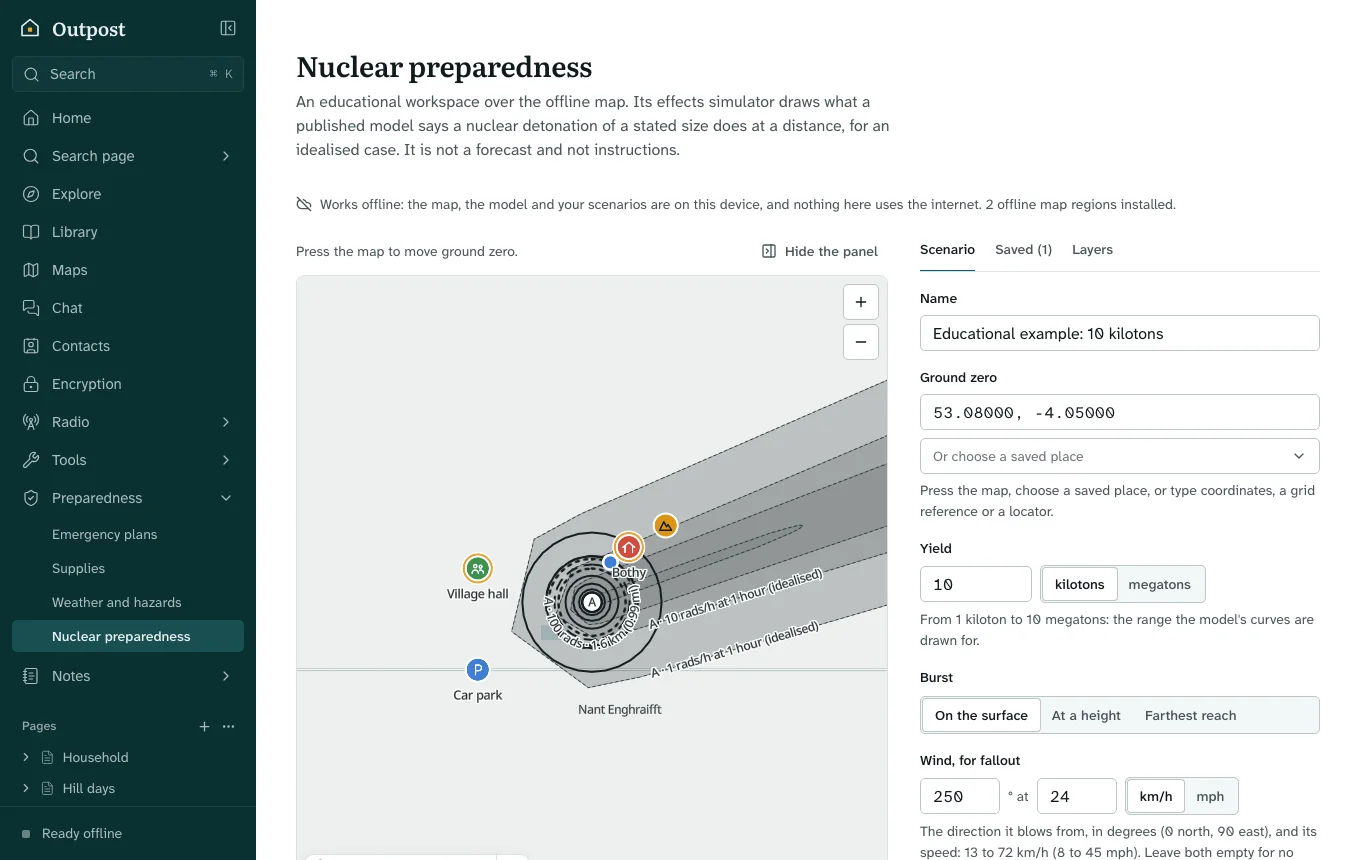
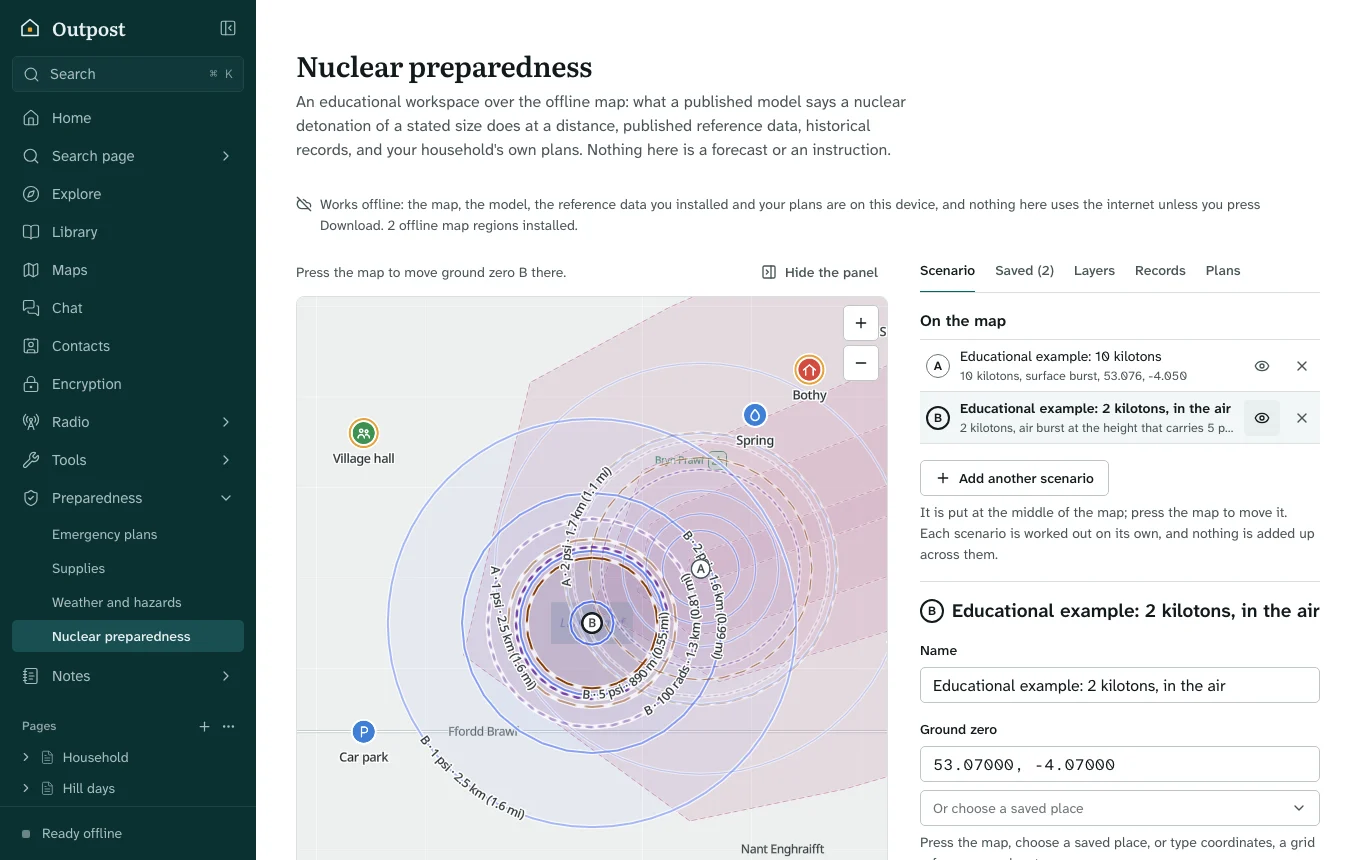
README: pictures made again with tonight's screens; the nuclear one shows two scenarios in colour
Claude-Session: https://claude.ai/code/session_01NqPZ6PNir5E8cycGLiBKMd

diff --git a/e2e/readme/screenshots.spec.ts b/e2e/readme/screenshots.spec.ts
@@ -405,9 +405,16 @@ test("the README's pictures", async ({ browser }) => {
   await api(page, "POST", "/api/nuclear/scenarios", {
     name: "Educational example: 10 kilotons",
     notes: "An idealised case on the test map, for the picture.",
-    lat: CENTRE.lat + 0.01,
+    lat: CENTRE.lat + 0.006,
     lon: CENTRE.lon + 0.02,
     effects: { yieldKt: 10, burst: { kind: "surface" }, wind: { fromDegrees: 250, kmh: 24 } },
+  });
+  await api(page, "POST", "/api/nuclear/scenarios", {
+    name: "Educational example: 2 kilotons, in the air",
+    notes: "A second idealised case, to show two on the map.",
+    lat: CENTRE.lat,
+    lon: CENTRE.lon,
+    effects: { yieldKt: 2, burst: { kind: "optimum", psi: 5 }, wind: null },
   });
   await api(page, "PATCH", "/api/settings", {
     "answers.enabled": true,
@@ -494,7 +501,12 @@ test("the README's pictures", async ({ browser }) => {
 
   await page.goto("/prepare/nuclear");
   await page.getByRole("tab", { name: /Saved/ }).click();
-  await page.getByRole("button", { name: /^Open/ }).first().click();
+  // Both saved scenarios on the map. The air burst is selected, so that the map is fitted to its rings and they can
+  // be read; the surface burst beside it is drawn fainter, with its fallout pattern running off downwind.
+  for (const name of ["10 kilotons", "2 kilotons, in the air"]) {
+    await page.getByRole("listitem").filter({ hasText: name }).getByRole("button", { name: "Put it on the map" }).click();
+    await page.getByRole("tab", { name: /Saved/ }).click();
+  }
   await page.getByRole("tab", { name: "Scenario" }).click();
   await page.getByRole("button", { name: "Fit the map to it" }).click();
   await page.evaluate(() => window.scrollTo(0, 0));

diff --git a/README.md b/README.md
@@ -225,10 +225,11 @@ real network's devices are shown.*
 
 *A plan made from the power cut template: each step says whose words it is.*
 
-![The nuclear preparedness workspace with an educational scenario on the test map](docs/screenshots/nuclear.webp)
+![The nuclear preparedness workspace with two educational scenarios on the test map, one with an idealised fallout pattern](docs/screenshots/nuclear.webp)
 
-*The nuclear preparedness workspace: an educational scenario on the test suite's
-made-up map, with the model's rings and idealised fallout pattern.*
+*The nuclear preparedness workspace: two educational scenarios on the test suite's
+made-up map, each kind of effect in its own colour, one with the model's idealised
+fallout pattern.*
 
 ### Looking after it
 
